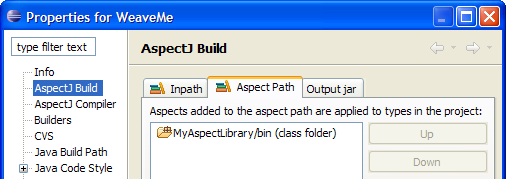
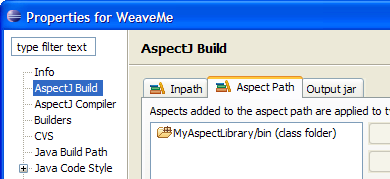
new aj build props

diff --git a/newfeatures/index.php b/newfeatures/index.php
@@ -54,10 +54,10 @@ or for further discussion or suggestions please visit the
 			<span class="dates">(posted 31-08-06)</span>
 		<p>
 		  The project properties pages for configuring a project's
-		  inpath, aspect path, and output jar settings have been
+		  inpath, aspect path, and output jar have been
 		  organised into a single <b>AspectJ Build</b> page.
 		</p>
-		<img src="ajbuildprops.png" width="506" height="179" alt="new AspectJ build properties page">
+		<img src="ajbuildprops.png" width="390" height="179" alt="new AspectJ build properties page">
 		<p>
 	      There is an <b>AspectJ Tools &gt; Configure AspectJ Build Path...</b>
 		  shortcut to this page, available by right-clicking on a project. It
